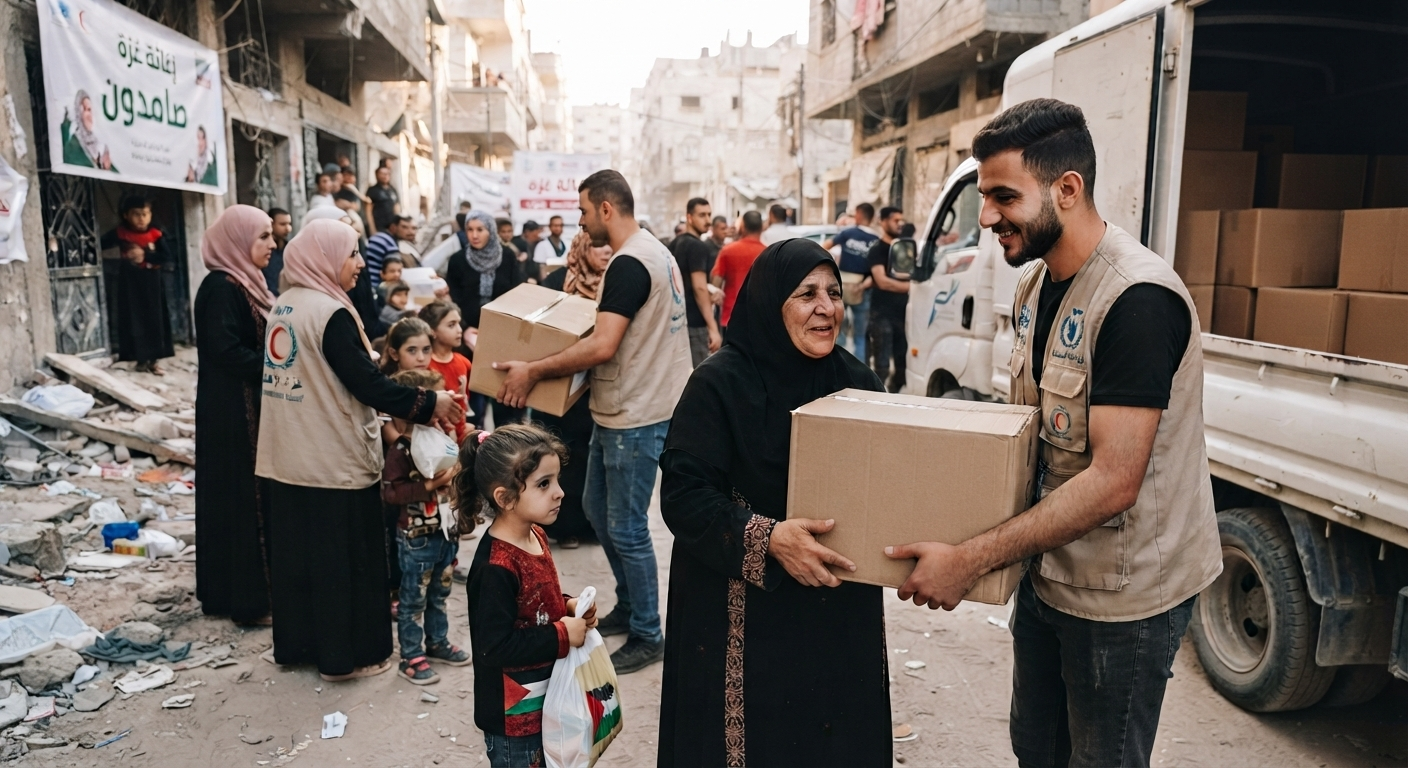
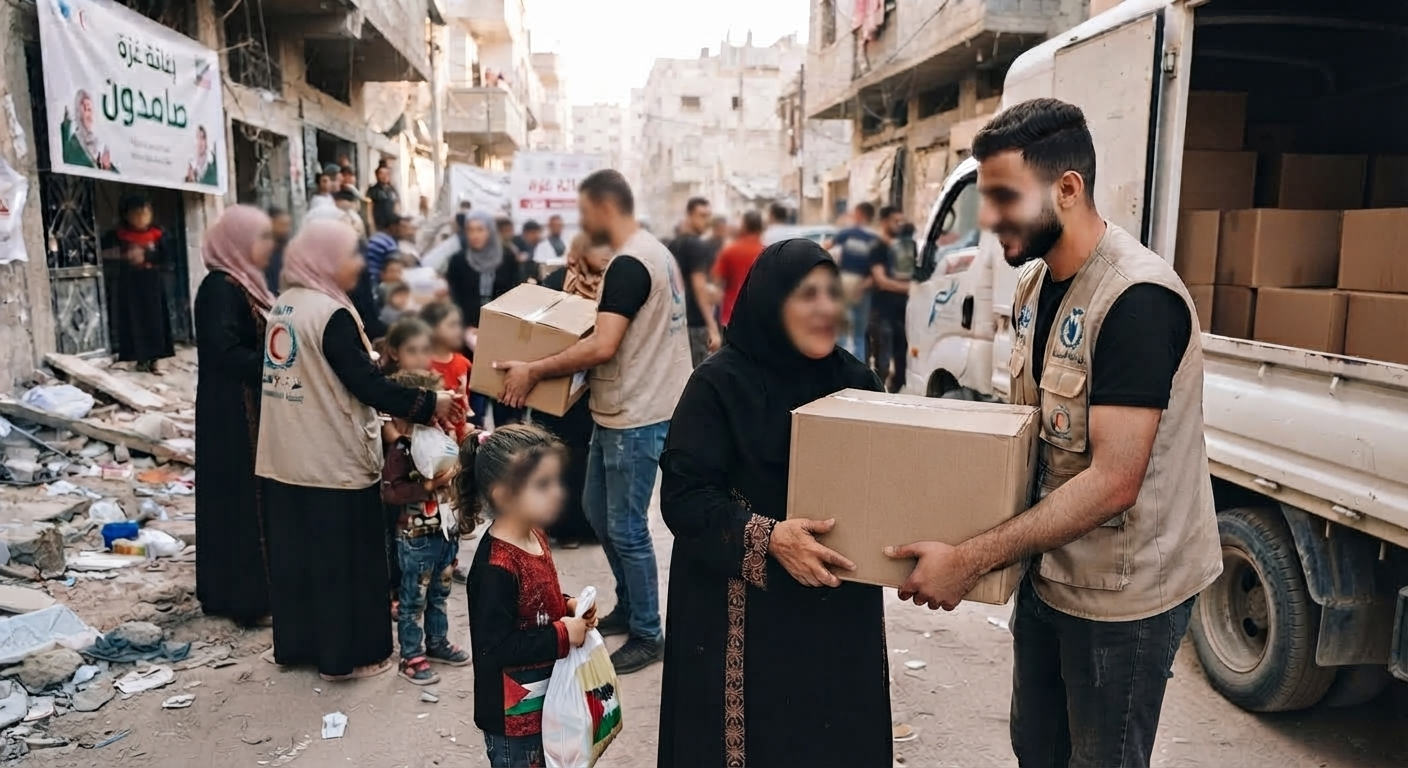
update code

diff --git a/index.html b/index.html
@@ -192,7 +192,7 @@
                     class="item bg-white border border-gray-300 rounded-lg p-5 shadow-lg flex flex-col justify-between h-full min-h-95 sm:min-h-105">
                     <div>
                         <div class="mb-3 rounded-md overflow-hidden min-h-20">
-                            <img src="images/cach.jpg" alt="cach" class="w-full h-full object-cover ">
+                            <img src="images/cach_with_logo.png" alt="cach" class="w-full h-full object-cover ">
                         </div>
                         <strong class="text-xl text-third block mb-2">المساعدات النقدية</strong>
                         <p class=" text-sm leading-relaxed">تقديم مساعدات مالية مباشرة للأسر الأشد احتياجاً
@@ -206,7 +206,7 @@
                     class="item bg-white border border-gray-300 rounded-lg p-5 shadow-lg flex flex-col justify-between h-full min-h-95 sm:min-h-105">
                     <div>
                         <div class="mb-4 rounded-md overflow-hidden min-h-20">
-                            <img src="images/water.jpg" alt="water" class="w-full h-full object-cover">
+                            <img src="images/water_with_logo.png" alt="water" class="w-full h-full object-cover">
                         </div>
                         <strong class="text-xl text-third block mb-2">المياه و الإصحاح</strong>
                         <p class="text-sm leading-relaxed">تم تنفيذ عمليات توريد وتوزيع مياه الشرب الصالحة
@@ -219,7 +219,8 @@
                     class="item bg-white border border-gray-300 rounded-lg p-5 shadow-lg flex flex-col justify-between h-full min-h-95 sm:min-h-105">
                     <div>
                         <div class="mb-4 rounded-md overflow-hidden min-h-20">
-                            <img src="images/emergincy.jpg" alt="emergincy" class="w-full h-full object-cover">
+                            <img src="images/emergincy_with_logo.png" alt="emergincy"
+                                class="w-full h-full object-cover">
                         </div>
                         <strong class="text-xl text-third block mb-2">الاستجابة الطارئة</strong>
                         <p class=" text-sm leading-relaxed">تم تنفيذ تدخلات عاجلة خلال فترات النزوح
@@ -232,7 +233,8 @@
                     class="item bg-white border border-gray-300 rounded-lg p-5 shadow-lg flex flex-col justify-between h-full min-h-95 sm:min-h-105">
                     <div>
                         <div class="mb-4 rounded-md overflow-hidden min-h-20">
-                            <img src="images/student.jpg" alt="study-space" class="w-full h-full object-cover">
+                            <img src="images/student_with_logo.png" alt="study-space"
+                                class="w-full h-full object-cover">
                         </div>
                         <strong class="text-xl text-third block mb-2">مساحة عمل مجانية للطلاب الجامعات</strong>
                         <p class=" text-sm leading-relaxed">توفير مساحات تعليمية لطالبات الجامعات تستوعب
@@ -250,7 +252,7 @@
             <div class="grid md:grid-cols-2 gap-10 items-center">
 
                 <div>
-                    <h2 class=" text-3xl  text-third font-semibold">العنوان</h2>
+                    <h2 class=" text-3xl  text-third font-semibold">عنوانا</h2>
                     <div class="mt-6 flex flex-col gap-5 text-[18px] leading-8">
                         <div>
                             <i class="fa-solid fa-location-dot"></i>
